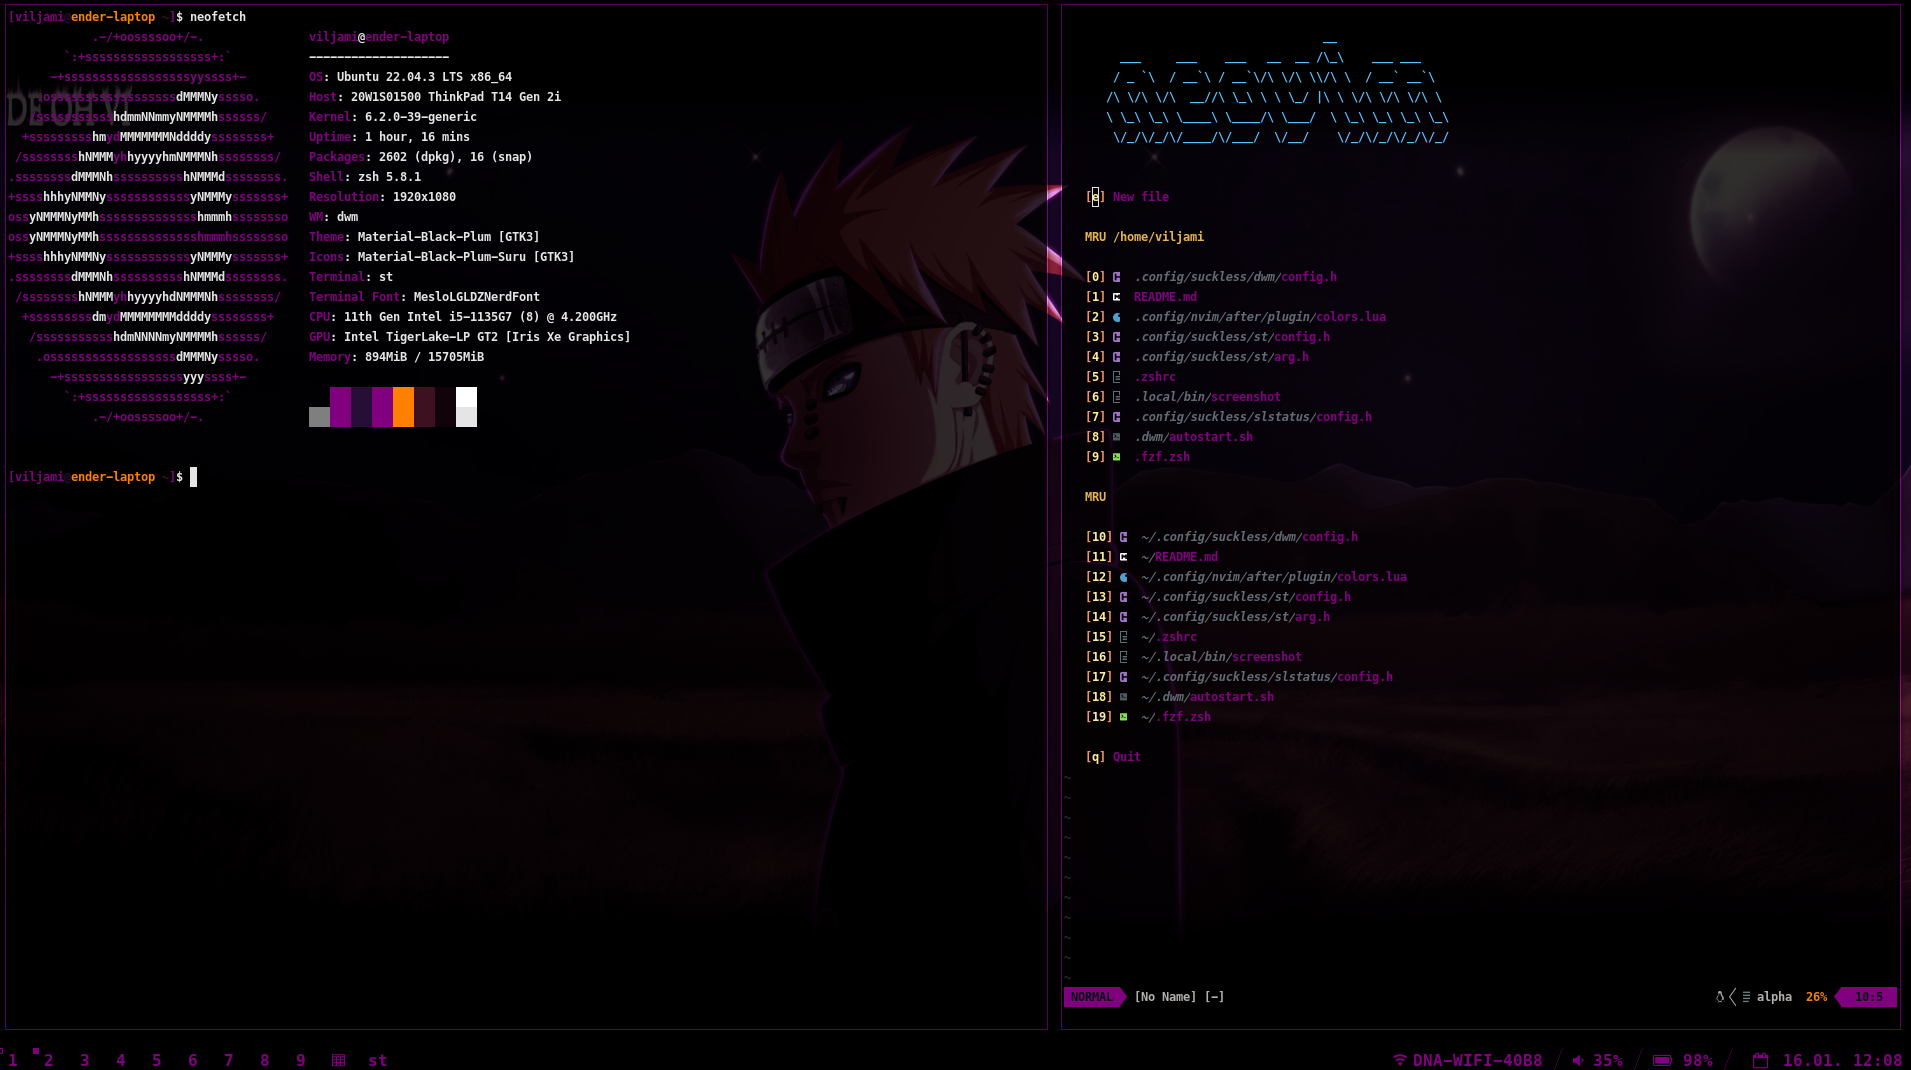
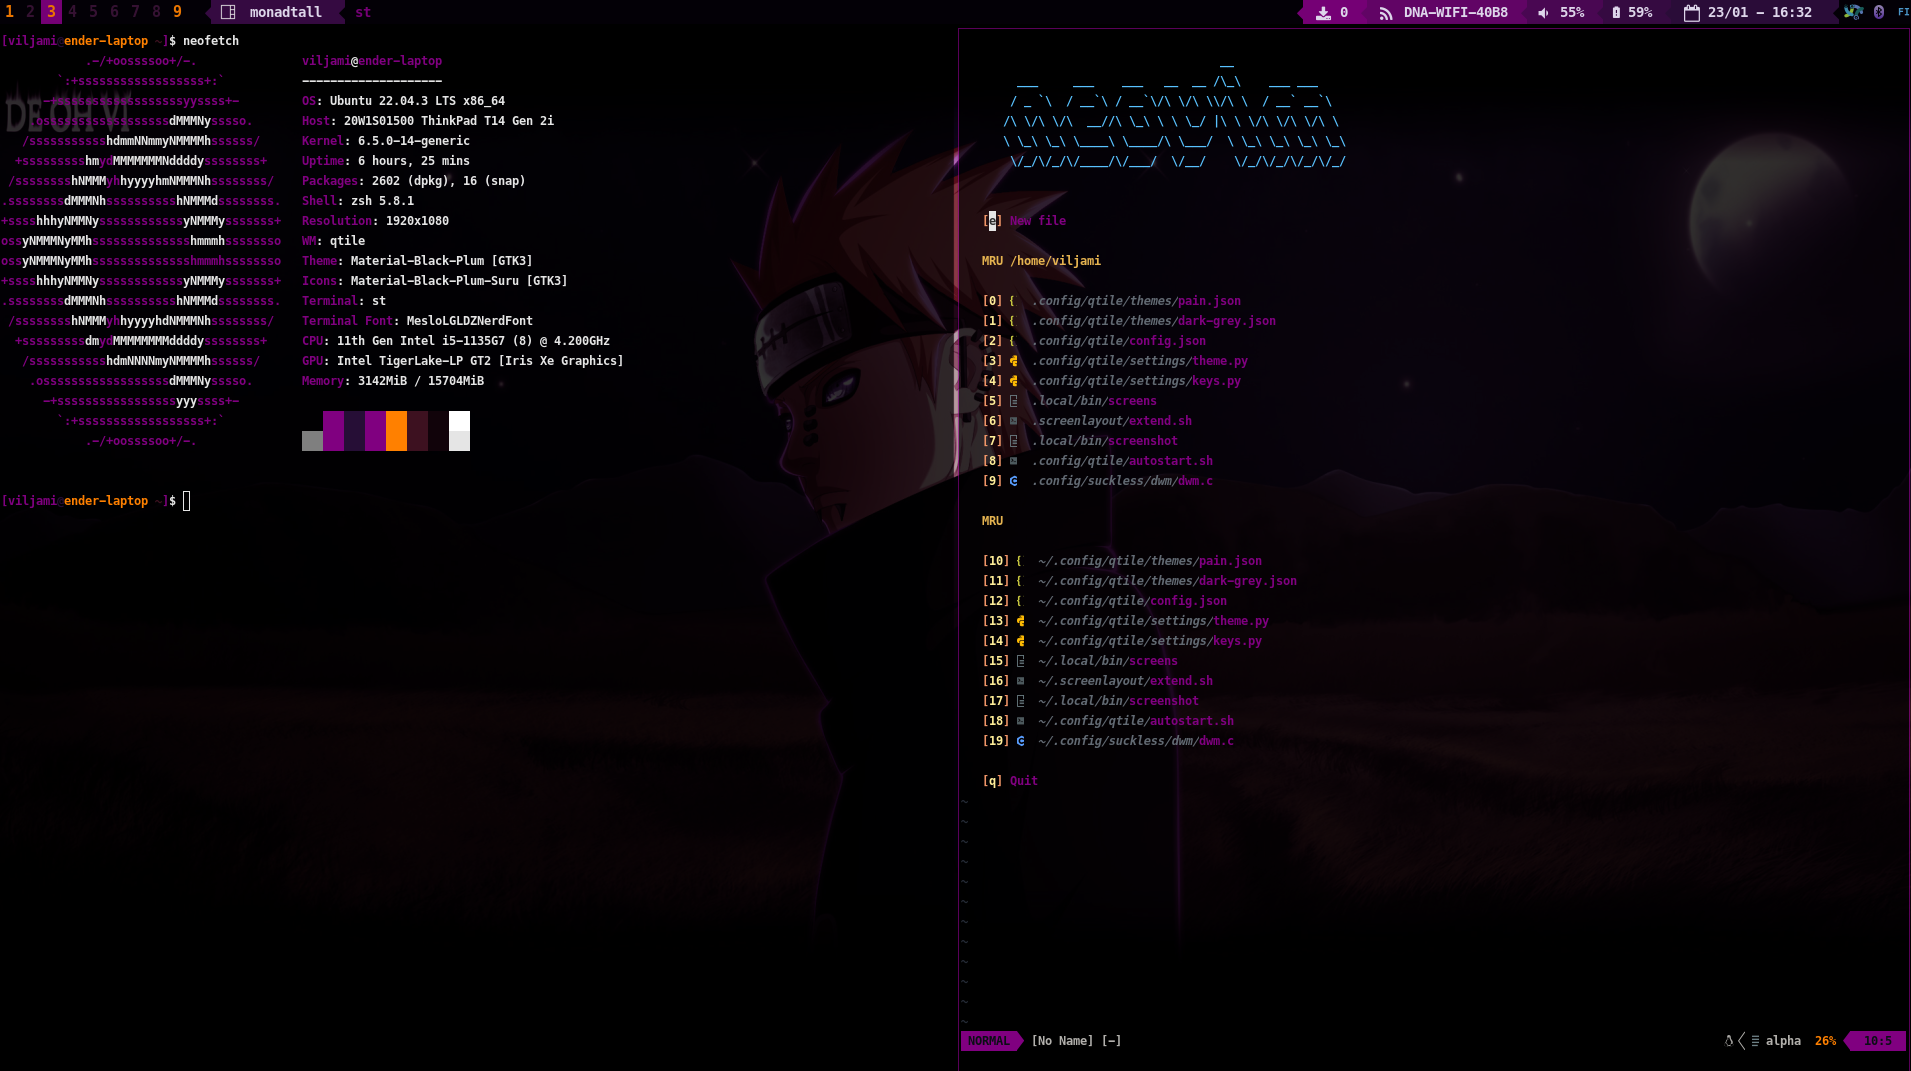
Updating qtile colors

diff --git a/.config/qtile/settings/keys.py b/.config/qtile/settings/keys.py
@@ -58,7 +58,7 @@ keys = [Key(key[0], key[1], *key[2:]) for key in [
     ([mod], "Return", lazy.spawn("st")),
 
     # Screenshot
-    ([mod, "shift"], "s", lazy.spawn("~/.local/bin/screenshot")),
+    ([], "Print", lazy.spawn("/home/viljami/.local/bin/screenshot")),
 
     # ------------ Hardware Configs ------------
 
@@ -78,12 +78,13 @@ keys = [Key(key[0], key[1], *key[2:]) for key in [
     ([], "XF86MonBrightnessDown", lazy.spawn("brightnessctl set 10%-")),
 
     # System Actions
-    ([mod, "shift"], "s", lazy.spawn("~/.local/bin/systemControl")),
+    ([mod, "shift"], "s", lazy.spawn("/home/viljami/.local/bin/systemControl")),
     ([super], "l", lazy.spawn("slock")),
+    ([super], "p", lazy.spawn("/home/viljami/.local/bin/screens")),
 
     ([mod], "F1", lazy.spawn("st -e pulsemixer")),
     ([mod], "F2", lazy.spawn("st -e nmtui")),
-    ([mod], "F3", lazy.spawn("st -e xinput-gui")),
-    ([mod], "F4", lazy.spawn("st -e blueman-manager")),
-    ([super], "p", lazy.spawn("st -e arandr")),
+    ([mod], "F3", lazy.spawn("xinput-gui")),
+    ([mod], "F4", lazy.spawn("blueman-manager")),
+    ([mod], "F5", lazy.spawn("arandr")),
 ]]

diff --git a/README.md b/README.md
@@ -5,8 +5,7 @@ Here are all my .dotfiles
 ## What I use
 
 - Neovim 
-- DWM
-- slstatus
+- Qtile
 - Theme: Material-Black-Plum-BE
 - Icons: Material-Black-Plum-Suru
 
